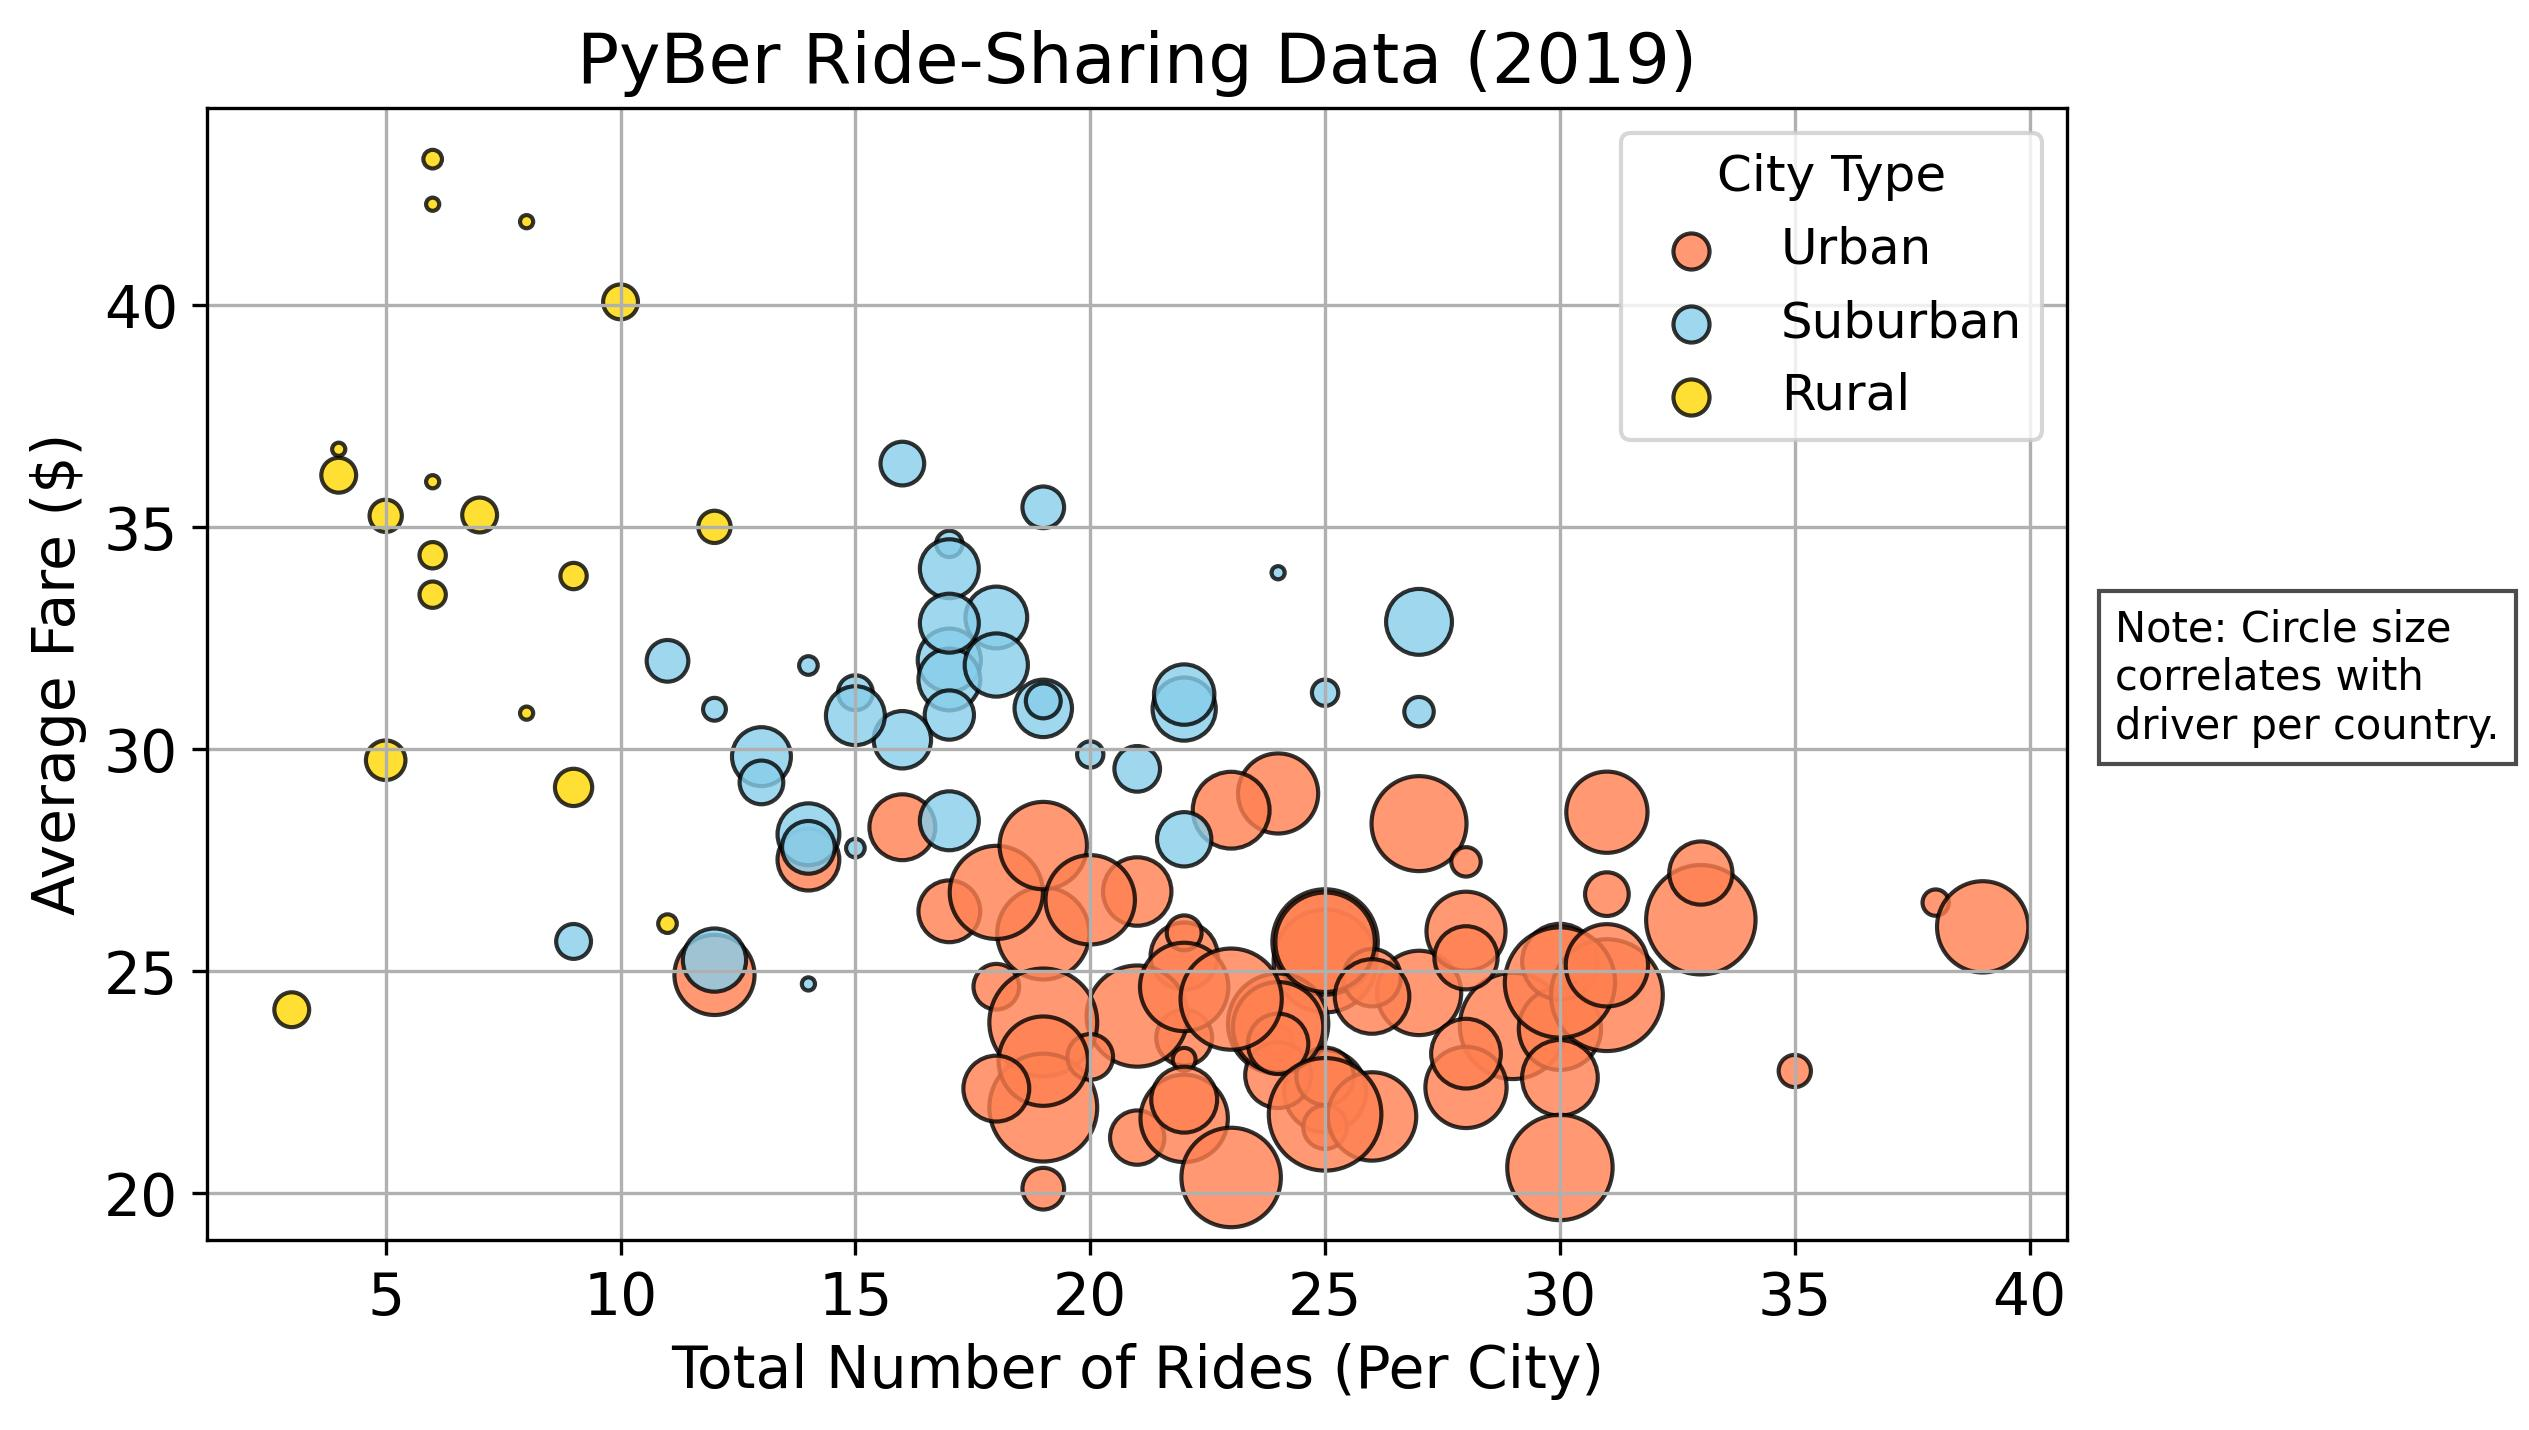
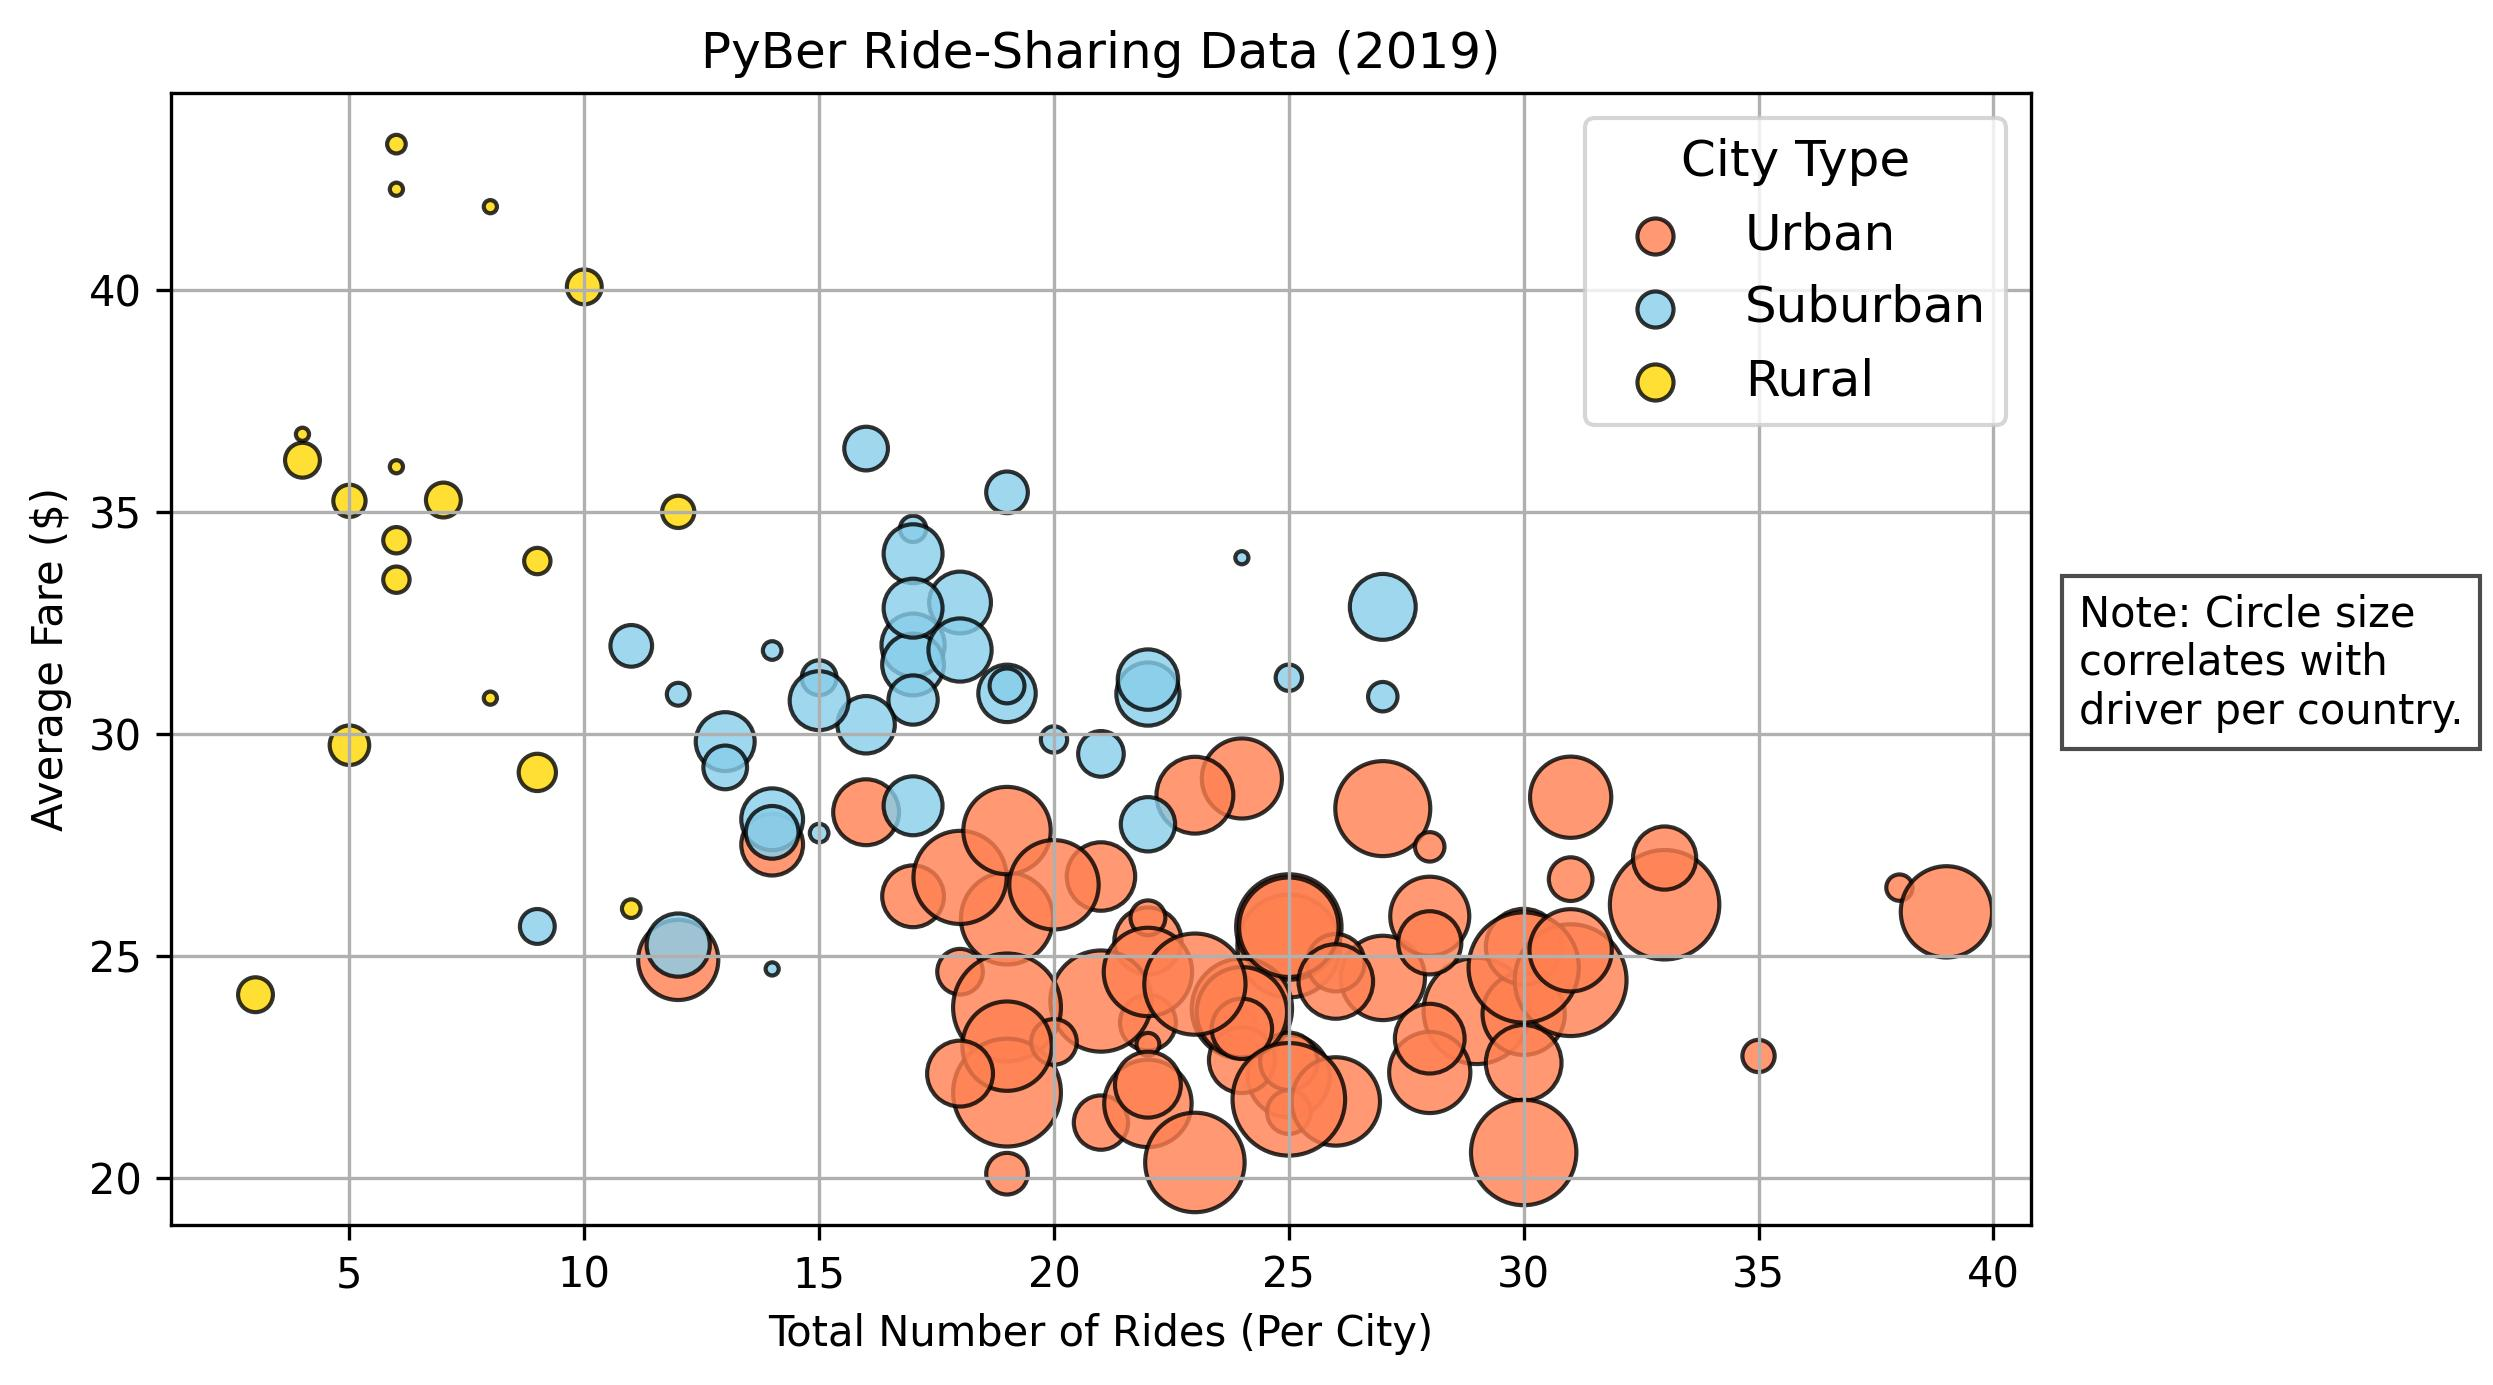
added comments to code

diff --git a/pyber.py b/pyber.py
@@ -47,7 +47,6 @@ ride_count = get_count_by_city_by_type(COL.RIDE)
 fares = {typ: city_types_dict[typ][COL.FARE] for typ in CITY_TYPES}
 drivers = {typ: city_types_dict[typ][COL.DRIVERS] for typ in CITY_TYPES}
 fare_average = get_average_by_city_by_type(COL.FARE)
-
 drivers_average = get_average_by_city_by_type(COL.DRIVERS)
 
 
@@ -55,7 +54,7 @@ drivers_average = get_average_by_city_by_type(COL.DRIVERS)
 # Create all the Bubble Plots.
 def plot_bubble_chart(ax: plt.Axes, city_type: str, color: str) -> plt.Axes:
     """
-    Generate a scatter-bubble chart in the specified axis.
+    Generate a scatter-bubble chart.
     This depends on previously made dictionaries where
     the key is city type and the value is a pandas series.
     """
@@ -79,9 +78,9 @@ def plot_bubble_chart(ax: plt.Axes, city_type: str, color: str) -> plt.Axes:
         lg._sizes = [75]
     legend.get_title().set_fontsize(12)
     return ax
-
+# Setup common arguments
 colors = ["coral", "skyblue", "gold"]
-text_kwargs = {
+text_arguments = {
     "x": 0.92, "y":0.5, 
     "s": "Note: Circle size\ncorrelates with\ndriver per country.", 
     "fontsize": 10,
@@ -89,38 +88,40 @@ text_kwargs = {
     "verticalalignment":'center', 
     "bbox":dict(facecolor='white', alpha=0.7)
 }
-figures = {
-    typ: plt.figure(figsize=(8,5)) for i in range(0,3)
-    for typ in CITY_TYPES
-}
-for typ, color in zip(figures, colors):
-    plot_bubble_chart(figures[typ].add_subplot(111), typ, color)
-    figures[typ].text(**text_kwargs)
-    figures[typ].savefig(output_path/ f"ridesharing_{typ}.jpeg", dpi=300, bbox_inches='tight')
+# Individual Plots
+for typ, color in zip(CITY_TYPES, colors):
+    fig = plt.figure(figsize=(8,5))
+    ax = fig.add_subplot(111)
+    plot_bubble_chart(ax, typ, color)
+    fig.text(**text_arguments)
+    fig.savefig(output_path/ f"ridesharing_{typ}.jpeg", dpi=300, bbox_inches='tight')
 
+# Combined Plot
 fig = plt.figure(figsize=(8,5))
 ax = fig.add_subplot(111)
 for typ, color in zip(CITY_TYPES, colors):
     plot_bubble_chart(ax, typ, color)
-fig.text(**text_kwargs)
+fig.text(**text_arguments)
 fig.savefig(output_path/ f"ridesharing.jpeg", dpi=300, bbox_inches='tight')
-
 
 # %%
 # Get stats of all dataframes by city type
 quartile_1 = lambda x: np.quantile(x, 0.25)
 quartile_3 = lambda x: np.quantile(x, 0.75)
-    
-def get_stats(dataset):
+
+def get_stats(series):
+    """Return the results of statistical functions
+    applied to the series."""
     stats = ["mean", "median", "mode", "q1", "q3"]
     functions = [np.mean, np.median, sts.mode, quartile_1, quartile_3]
-    return {stat: func(dataset) for stat, func in zip(stats, functions)}
+    return {stat: func(series) for stat, func in zip(stats, functions)}
 
 def get_stats_by_city_types(dataset):
-    """Runs get_stats per city type."""
+    """Get all the statistical data, mean, mode, etc.
+    for all the elements in the dataset. Returns a DF."""
     return pd.DataFrame({city_type: get_stats(dataset[city_type])
         for city_type in CITY_TYPES})
-
+# Execute for the data we want
 ride_count_stats = get_stats_by_city_types(ride_count)
 fare_stats = get_stats_by_city_types(fares)
 drivers_stats = get_stats_by_city_types(drivers)
@@ -129,12 +130,15 @@ ride_count_stats
 # %%
 # Find outliers by city type
 def find_outliers(data, stats):
+    """Use IQR to locate out of bounds outliers."""
     q1 = stats["q1"]
     q3 = stats["q3"]
     upper_bound = q3 + 1.5*(q3 - q1)
-    return data[data>= upper_bound]
+    lower_boud = q1 - 1.5*(q3 - q1)
+    return data[data >= upper_bound]
 
 def find_outliers_by_city_types(data, stats):
+    """Return a dataframe of all outliers in the data."""
     return pd.DataFrame({
         t: find_outliers(data[t], stats[t])
         for t in CITY_TYPES})
